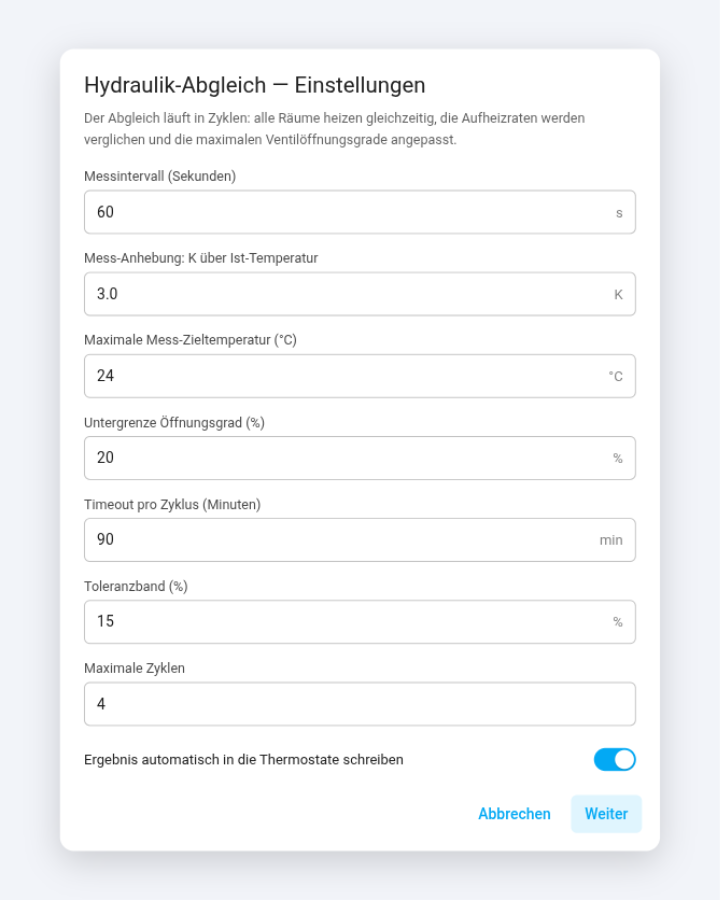
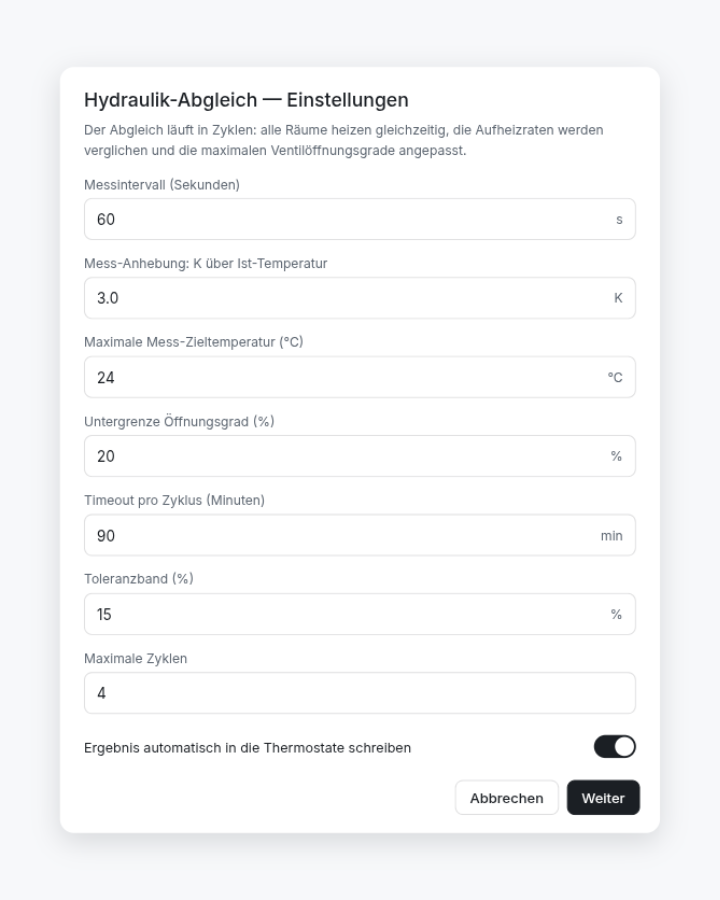
🖼 README: Bilder auf das Live-Demo-Design umgestellt
- Demo-Screenshots: Messphase (Zyklus 1) + Ergebnis (87 %-Regelung, Systemgrenze-Hinweis)
- Einrichtungs-Dialoge im Demo-Design (Eigenentwicklung-Palette)
- Demo-Bugfixes: Ticks überleben Hintergrund-Tabs (setInterval),
  exakte Ziel-Interpolation, Teilschritte ≤ 1 min, Hinweis nur 1×, Chart-Polish

diff --git a/README.md b/README.md
@@ -23,12 +23,14 @@ Pro Anpassung gibt es eine **Begründung im Bericht** („heizt 1,4× schneller 
 
 ## Ein Blick auf die Oberfläche
 
+Die oberen beiden Bilder stammen aus der interaktiven Live-Demo der Regellogik (Simulation mit derselben Mathematik wie die Integration).
+
 | | |
 |---|---|
+| ![Live-Demo Messphase](docs/images/demo-messung.png) | ![Live-Demo Ergebnis](docs/images/demo-ergebnis.png) |
+| *Live-Demo: Zyklus 1 — alle Ventile bei 100 %, die Aufheizkurven steigen* | *Live-Demo: Ergebnis — Schlafzimmer auf 87 % geregelt, Keller meldet Systemgrenze* |
 | ![Einstellungen](docs/images/config-options.png) | ![Raum hinzufügen](docs/images/config-room.png) |
 | *Einrichtung: Optionen (Intervall, Toleranz, Zyklen …)* | *Einrichtung: Raum mit Thermostat, Sensor & Ventil-Entity* |
-| ![Dashboard](docs/images/dashboard.png) | ![Sensor-Details](docs/images/sensor-detail.png) |
-| *Dashboard: Status, Steuerung, Räume & Bericht* | *Entity-Details: Öffnungsgrade, Median & vollständiger Bericht* |
 
 ## Voraussetzungen
 
